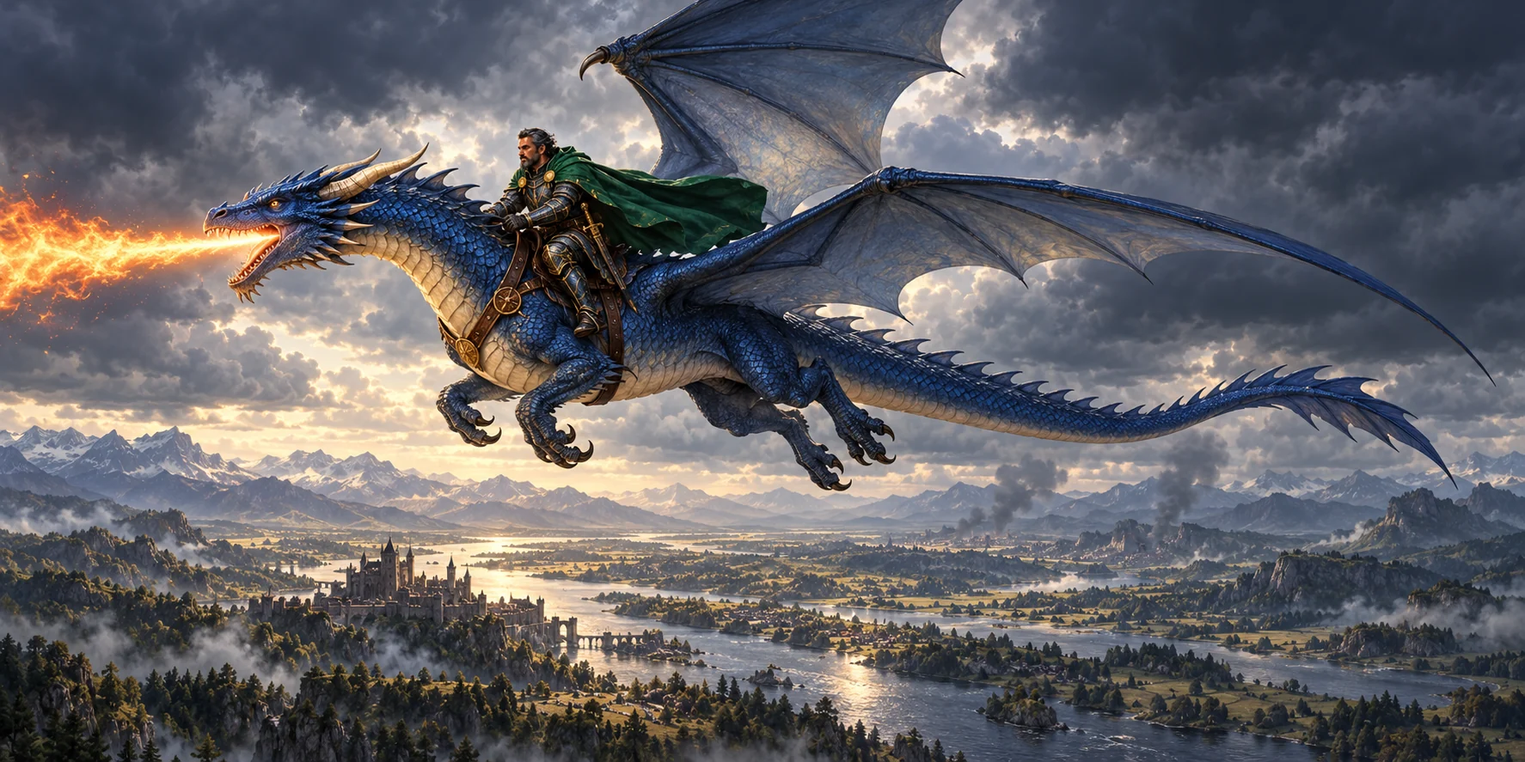
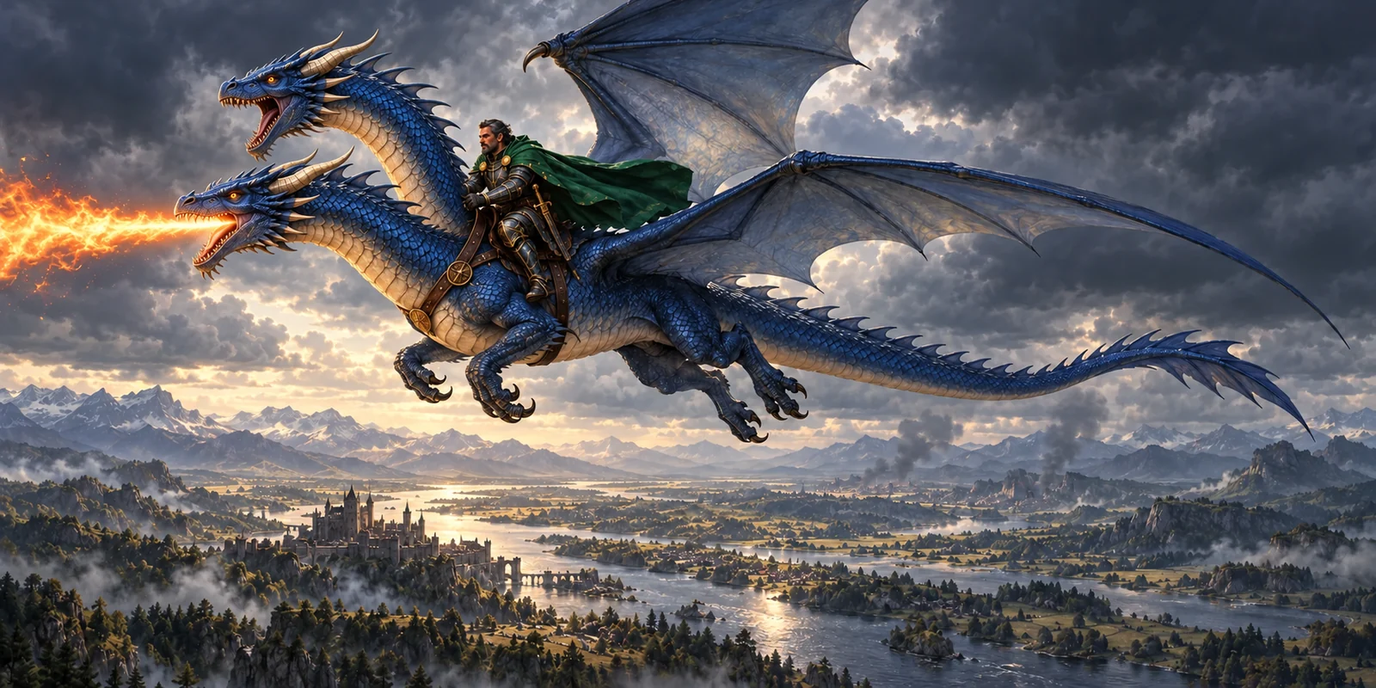
Shorten the prologue, add player identity choices, and animate pyramid scarab travel
Halve the opening shot time and correct all retained royal dragon illustrations to a two-headed blue dragon. Add a mobile-friendly new-game creator, generated hair portraits, consistent sprite palettes, displayed names, and per-save profiles with legacy defaults. Make all eight pyramid scarabs roam safely and remove decorative stationary mummies while retaining combat enemies. Add regression coverage and preserve published editor changes.

diff --git a/js/prologue-chapters.js b/js/prologue-chapters.js
@@ -1,30 +1,17 @@
-/* Authored shots: camera points are [image focal x, image focal y, zoom].
-   The peaceful towns form one narrated passage without location title cards. */
+/* Short opening history: thirteen shots preserve the rise, betrayal and aftermath.
+   Camera points are [image focal x, image focal y, zoom]. */
 window.EmberPrologueChapters = [
-  {"title":"The age of riders","era":"Emberfell · Before Wingfall","image":"01-seven-riders","duration":9300,"alt":"Seven distinct dragons and their Riders stand together on a grassy ridge overlooking peaceful Emberfell; Halvard rides the blue dragon.","lines":["Seven Dragonriders once ruled Emberfell.","Dragons were plentiful, and peace endured."],"mood":"peace","transition":"dissolve","camera":[[0.19,0.53,1.03],[0.5,0.57,1.03],[0.82,0.63,1.03]]},
-  {"title":"Millwood","era":"The western fields","image":"06-peace-millwood","duration":3800,"alt":"Dragons and people live peacefully around Millwood’s timber windmill, wheat fields and cow pasture.","lines":["Dragons lived beside humankind."],"mode":"montage","transition":"dissolve","camera":[[0.3,0.53,1.08],[0.46,0.47,1.02]],"hideTitle":true},
-  {"title":"Thornwell","era":"Beyond the orange birches","image":"07-peace-thornwell","duration":3800,"alt":"Thornwell’s school, ivy-clad tavern, dark-roofed inn and apple orchard welcome people and dragons.","lines":["They were neighbors, companions, and friends."],"mode":"montage","transition":"dissolve","camera":[[0.62,0.42,1.02],[0.46,0.49,1.08]],"hideTitle":true},
-  {"title":"Forgefalls & Forgewick","era":"Across the oak country","image":"08-peace-forgefalls-forgewick","duration":3800,"alt":"A wagon crosses below Forgefalls toward Forgewick’s bustling market, forge, mine and rider temple.","lines":["Their wings sheltered a thriving realm."],"mode":"montage","transition":"dissolve","camera":[[0.4,0.64,1.13],[0.53,0.34,1.02]],"hideTitle":true},
-  {"title":"Sandspire & the Oasis","era":"The desert crossings","image":"09-peace-sandspire-oasis","duration":3800,"alt":"Sandspire’s sandstone houses overlook a safe cactus-lined caravan road to the separate palm oasis.","lines":["Travelers crossed the roads without fear."],"mode":"montage","transition":"dissolve","camera":[[0.57,0.4,1.13],[0.42,0.47,1.02]],"hideTitle":true},
-  {"title":"Coralmere & Witchmoor","era":"Blossoms, sea and marsh","image":"10-peace-coralmere-witchmoor","duration":3800,"alt":"Friendly dragons share Coralmere’s blossom-lined harbor; the road continues toward Witchmoor’s boardwalks.","lines":["Trade and friendship linked the distant towns."],"mode":"montage","transition":"dissolve","camera":[[0.39,0.38,1.04],[0.67,0.5,1.04]],"hideTitle":true},
-  {"title":"Hollybeck","era":"The winter country","image":"11-peace-hollybeck","duration":3800,"alt":"Snow-covered timber houses, friendly dragons and a safe spruce-lined road below Hollybeck’s temple.","lines":["Even the farthest villages knew peace."],"mode":"montage","transition":"dissolve","camera":[[0.48,0.64,1.08],[0.48,0.32,1.16]],"hideTitle":true},
-  {"title":"Ashcrag & Cinderhold","era":"The far eastern road","image":"12-peace-ashcrag-cinderhold","duration":3800,"alt":"A maintained stone road crosses Ashcrag’s lava country to Cinderhold, guarded by a dragon and rider.","lines":["Together, the seven Riders kept that peace."],"mode":"montage","transition":"dissolve","camera":[[0.65,0.35,1.17],[0.48,0.49,1.02]],"hideTitle":true},
-  {"title":"One wanted more","era":"Halvard · One of the seven","image":"13-halvard-ambition","duration":7800,"alt":"Halvard stands apart from the other riders, his hand tightening beside the throne.","lines":["But one of the seven wanted more.","Halvard meant to rule alone."],"mood":"royal","transition":"black","camera":[[0.48,0.43,1.04],[0.29,0.23,1.72]],"ease":"ease-in-out"},
-  {"title":"Wingfall","era":"Fifty years ago","image":"02-wingfall","duration":7800,"alt":"Short-haired Halvard rides his blue dragon above Emberfell as the betrayal begins.","lines":["The betrayal came fifty years ago.","They called it Wingfall."],"mood":"war","transition":"impact","camera":[[0.47,0.36,1.03],[0.35,0.32,1.09],[0.22,0.34,1.12]]},
-  {"title":"The broken sky","era":"Wingfall","image":"14-wingfall-sky","duration":5800,"alt":"Halvard on his blue dragon faces a white dragon and its Rider, their separate silhouettes clear above Forgefalls.","lines":["Dragonfire turned against dragonfire."],"mood":"war","transition":"impact","camera":[[0.76,0.28,1.02],[0.5,0.31,1.02],[0.27,0.28,1.06]]},
-  {"title":"The last defense","era":"Wingfall · The rider halls","image":"15-wingfall-temple","duration":8000,"alt":"A green dragon and its defender protect fleeing villagers at Forgewick’s temple while Halvard attacks from above on his blue dragon.","lines":["The Riders fell. Halvard prevailed."],"mood":"war","transition":"veil","camera":[[0.61,0.23,1.02],[0.27,0.59,1.02],[0.76,0.72,1.02]]},
-  {"title":"The usurper king","era":"Cinderhold","image":"03-halvard","duration":7800,"alt":"The crowned Halvard sits on Cinderhold’s throne, surrounded by his royal guards.","lines":["He seized Cinderhold’s throne.","No new Rider would be allowed to challenge him."],"mood":"royal","transition":"black","camera":[[0.47,0.39,1.02],[0.468,0.18,1.92]],"ease":"ease-in-out"},
-  {"title":"The dragon hunts","era":"By order of the king","image":"16-dragon-hunts","duration":7800,"alt":"Halvard leads armed royal hunters after dragons fleeing the cactus-lined roads outside Sandspire.","lines":["Then came the dragon hunts.","The survivors vanished. The skies fell silent."],"mood":"war","transition":"veil","camera":[[0.18,0.36,1.08],[0.6,0.38,1.02],[0.86,0.4,1.12]]},
-  {"title":"The abandoned workings","era":"The years after Wingfall","image":"21-monsters-mine","duration":4100,"alt":"Brown, red and violet Shroom monsters gather along mine rails beneath the watch of a brown Sand Golem.","lines":["Without the Riders, darkness spread."],"mode":"threat","mood":"dread","transition":"black","camera":[[0.3,0.44,1.03],[0.8,0.42,1.2]],"ease":"ease-in"},
-  {"title":"Orders without masters","era":"Beneath Forgewick","image":"22-monsters-granite","duration":3600,"alt":"A gray Stone Golem and skeletal swordsmen stand watch in the old temple undercroft.","lines":["Ancient wardens kept their watch."],"mode":"threat","mood":"dread","transition":"dread","camera":[[0.3,0.4,1.22],[0.68,0.44,1.03]]},
-  {"title":"The desert crossings","era":"The roads fall silent","image":"18-monsters-desert","duration":3600,"alt":"Orange Duneblades, teal Cistern Fangs and red, horn-helmed Sunscar Sentinels block the cactus-lined road near Sandspire.","lines":["The crossings belonged to monsters."],"mode":"threat","mood":"dread","transition":"dread","camera":[[0.71,0.46,1.03],[0.36,0.45,1.13]]},
-  {"title":"Beneath the sands","era":"The Sunken Pyramid","image":"24-monsters-pyramid","duration":3900,"alt":"A mummy and light- and dark-clad archers and lancers guard a sandstone crypt; the crowned, silver-haired Velyss waits in its webbed depths.","lines":["Something waited beneath the sands."],"mode":"threat","mood":"dread","transition":"veil","camera":[[0.22,0.43,1.03],[0.86,0.4,1.16]],"ease":"ease-in"},
-  {"title":"The blossom roads","era":"Without the Riders","image":"17-monsters-blossom","duration":3700,"alt":"All three Vinemaw forms and all three Ent forms spread across the blossom road outside Coralmere.","lines":["Even the forests began to hunger."],"mode":"threat","mood":"dread","transition":"dread","camera":[[0.72,0.5,1.18],[0.25,0.42,1.02]]},
-  {"title":"The winter roads","era":"Beyond shuttered doors","image":"19-monsters-winter","duration":3600,"alt":"Sandy Snowfangs, brown Frostclaws and an armored white Direfang Gnoll occupy the snowy road outside Hollybeck.","lines":["Winter shelters became hunting grounds."],"mode":"threat","mood":"dread","transition":"dread","camera":[[0.3,0.45,1.03],[0.72,0.48,1.16]]},
-  {"title":"The sleepless guardians","era":"Beneath Hollybeck","image":"23-monsters-crystal","duration":3700,"alt":"An ivory Ice Golem with violet crystals stands alone in an empty, frozen temple hall.","lines":["The old halls would not sleep."],"mode":"threat","mood":"dread","transition":"veil","camera":[[0.42,0.56,1.04],[0.31,0.3,1.24]]},
-  {"title":"Beyond the last shelter","era":"The northern snow trail","image":"25-monsters-winter-bosses","duration":3900,"alt":"White-furred, ram-horned Hroth guards one snow clearing; the blue-winged Veilwing hovers in a separate frozen glade.","lines":["Beyond them, greater terrors stirred."],"mode":"threat","mood":"dread","transition":"dread","camera":[[0.26,0.45,1.13],[0.83,0.4,1.03]]},
-  {"title":"The eastern watch","era":"In the shadow of Cinderhold","image":"20-monsters-ashcrag","duration":3600,"alt":"Red-eyed Ember Eyes, a green-eyed orange Blazing Eye and a violet-eyed Dread Eye drift over the lava road.","lines":["Eyes watched the empty roads."],"mode":"threat","mood":"dread","transition":"dread","camera":[[0.65,0.38,1.03],[0.29,0.36,1.22]]},
-  {"title":"Fire beneath the stone","era":"The depths of Ashcrag","image":"26-monsters-ember","duration":3900,"alt":"A blue-armored Fire Golem with an orange core stands before lavender, red and dark-blue fiends bearing distinct tridents.","lines":["Fire still burned beneath the stone."],"mode":"threat","mood":"war","transition":"impact","camera":[[0.26,0.51,1.04],[0.8,0.35,1.1]]},
-  {"title":"Fifty silent years","era":"A kingdom under Halvard","image":"04-silenced-realm","duration":8800,"alt":"The old rider halls stand deserted beside an overgrown road.","lines":["Dragon worship was forbidden. The old histories disappeared.","Fifty years passed beneath Halvard’s crown."],"mood":"aftermath","transition":"black","camera":[[0.34,0.28,1.25],[0.53,0.45,1.02]]},
-  {"title":"An ordinary morning","era":"Millwood · The present day","image":"05-millwood-dawn","duration":7800,"alt":"Morning light reaches Corin’s upstairs window in Millwood, beyond the windmill and fields.","lines":["In Millwood, a miller’s son was waking.","His name was Corin."],"mood":"dawn","transition":"dissolve","camera":[[0.62,0.43,1.02],[0.543,0.53,1.48]],"ease":"ease-in-out"}
+  {"title":"The age of riders","era":"Emberfell · Before Wingfall","image":"01-seven-riders","duration":7500,"alt":"Seven distinct dragons and their Riders stand together on a grassy ridge overlooking peaceful Emberfell; Halvard rides the two-headed blue dragon.","lines":["Seven Dragonriders once ruled Emberfell.","Dragons were plentiful, and peace endured."],"mood":"peace","transition":"dissolve","camera":[[0.19,0.53,1.03],[0.5,0.57,1.03],[0.82,0.63,1.03]]},
+  {"title":"Millwood","era":"The western fields","image":"06-peace-millwood","duration":3500,"alt":"Dragons and people live peacefully around Millwood’s timber windmill, wheat fields and cow pasture.","lines":["Dragons lived beside humankind."],"mode":"montage","transition":"dissolve","camera":[[0.3,0.53,1.08],[0.46,0.47,1.02]],"hideTitle":true},
+  {"title":"Sandspire & the Oasis","era":"The desert crossings","image":"09-peace-sandspire-oasis","duration":3500,"alt":"Sandspire’s sandstone houses overlook a safe cactus-lined caravan road to the separate palm oasis.","lines":["Travelers crossed the roads without fear."],"mode":"montage","transition":"dissolve","camera":[[0.57,0.4,1.13],[0.42,0.47,1.02]],"hideTitle":true},
+  {"title":"Hollybeck","era":"The winter country","image":"11-peace-hollybeck","duration":3500,"alt":"Snow-covered timber houses, friendly dragons and a safe spruce-lined road below Hollybeck’s temple.","lines":["Even the farthest villages knew peace."],"mode":"montage","transition":"dissolve","camera":[[0.48,0.64,1.08],[0.48,0.32,1.16]],"hideTitle":true},
+  {"title":"One wanted more","era":"Halvard · One of the seven","image":"13-halvard-ambition","duration":5500,"alt":"Halvard stands apart from the other riders, his hand tightening beside the throne.","lines":["But one of the seven wanted more.","Halvard meant to rule alone."],"mood":"royal","transition":"black","camera":[[0.48,0.43,1.04],[0.29,0.23,1.72]],"ease":"ease-in-out"},
+  {"title":"Wingfall","era":"Fifty years ago","image":"02-wingfall","duration":6500,"alt":"Short-haired Halvard rides his two-headed blue dragon above Emberfell as the betrayal begins.","lines":["The betrayal came fifty years ago.","They called it Wingfall."],"mood":"war","transition":"impact","camera":[[0.47,0.36,1.03],[0.35,0.32,1.09],[0.22,0.34,1.12]]},
+  {"title":"The last defense","era":"Wingfall · The rider halls","image":"15-wingfall-temple","duration":6000,"alt":"A green dragon and its defender protect fleeing villagers at Forgewick’s temple while Halvard attacks from above on his two-headed blue dragon.","lines":["The Riders fell. Halvard prevailed."],"mood":"war","transition":"veil","camera":[[0.61,0.23,1.02],[0.27,0.59,1.02],[0.76,0.72,1.02]]},
+  {"title":"The usurper king","era":"Cinderhold","image":"03-halvard","duration":6000,"alt":"The crowned Halvard sits on Cinderhold’s throne, surrounded by his royal guards.","lines":["He seized Cinderhold’s throne.","No new Rider would be allowed to challenge him."],"mood":"royal","transition":"black","camera":[[0.47,0.39,1.02],[0.468,0.18,1.92]],"ease":"ease-in-out"},
+  {"title":"The dragon hunts","era":"By order of the king","image":"16-dragon-hunts","duration":6000,"alt":"Halvard leads armed royal hunters after dragons fleeing the cactus-lined roads outside Sandspire.","lines":["Then came the dragon hunts.","The survivors vanished. The skies fell silent."],"mood":"war","transition":"veil","camera":[[0.18,0.36,1.08],[0.6,0.38,1.02],[0.86,0.4,1.12]]},
+  {"title":"The desert crossings","era":"The roads fall silent","image":"18-monsters-desert","duration":3500,"alt":"Orange Duneblades, teal Cistern Fangs and red, horn-helmed Sunscar Sentinels block the cactus-lined road near Sandspire.","lines":["The crossings belonged to monsters."],"mode":"threat","mood":"dread","transition":"dread","camera":[[0.71,0.46,1.03],[0.36,0.45,1.13]]},
+  {"title":"The blossom roads","era":"Without the Riders","image":"17-monsters-blossom","duration":3500,"alt":"All three Vinemaw forms and all three Ent forms spread across the blossom road outside Coralmere.","lines":["Even the forests began to hunger."],"mode":"threat","mood":"dread","transition":"dread","camera":[[0.72,0.5,1.18],[0.25,0.42,1.02]]},
+  {"title":"Fifty silent years","era":"A kingdom under Halvard","image":"04-silenced-realm","duration":7000,"alt":"The old rider halls stand deserted beside an overgrown road.","lines":["Dragon worship was forbidden. The old histories disappeared.","Fifty years passed beneath Halvard’s crown."],"mood":"aftermath","transition":"black","camera":[[0.34,0.28,1.25],[0.53,0.45,1.02]]},
+  {"title":"An ordinary morning","era":"Millwood · The present day","image":"05-millwood-dawn","duration":5500,"alt":"Morning light reaches Corin’s upstairs window in Millwood, beyond the windmill and fields.","lines":["In Millwood, a miller’s son was waking.","His name was Corin."],"mood":"dawn","transition":"dissolve","camera":[[0.62,0.43,1.02],[0.543,0.53,1.48]],"ease":"ease-in-out"}
 ];

diff --git a/js/player-identity.js b/js/player-identity.js
@@ -1,0 +1,109 @@
+/* Corin remains the story actor's internal key. Only presentation uses this profile. */
+(() => {
+  'use strict';
+  const colors = [
+    {id:'dark',label:'Dark',swatch:'#51404b'},
+    {id:'brown',label:'Brown',swatch:'#795039',rgb:[108,68,43]},
+    {id:'copper',label:'Copper',swatch:'#bb5a30',rgb:[180,78,36]},
+    {id:'blond',label:'Blond',swatch:'#dab76a',rgb:[215,173,87]},
+    {id:'silver',label:'Silver',swatch:'#c4c2cf',rgb:[186,186,201]}
+  ];
+  const cleanName = value => Array.from(String(value ?? '').normalize('NFC')
+    .replace(/[^\p{L}\p{M}\p{N} '\u2019-]/gu,'').replace(/\s+/g,' ').trim()).slice(0,16).join('');
+  const normalize = value => ({name:cleanName(value?.name)||'Corin',hair:colors.some(c=>c.id===value?.hair)?value.hair:'dark'});
+  let profile=normalize(null), choosing=null, pageKeys=null, bytes=0;
+  const cache=new Map(),hairSource='assets/portraits/corin-hair.webp?v=20261006-player';
+  function restore(value){
+    profile=normalize(value);cache.clear();bytes=0;
+    const hud=document.getElementById('playerHudName'),death=document.getElementById('playerDeathTitle');
+    if(hud){hud.textContent=profile.name.toUpperCase();hud.title=profile.name;}
+    if(death)death.textContent=profile.name.toUpperCase()+' FALLS';
+  }
+  function text(value){
+    // Protect the chosen name on repeated display passes (e.g. “Corin Junior”).
+    const escaped=profile.name.replace(/[.*+?^${}()|[\]\\]/g,'\\$&');
+    return String(value??'').replace(new RegExp('(?<![\\p{L}\\p{N}_])(?:'+escaped+'|Corin)(?![\\p{L}\\p{N}_])','gu'),match=>match==='Corin'?profile.name:match);
+  }
+  function portrait(hair=profile.hair,armored=false){
+    const column=colors.findIndex(c=>c.id===hair)-1;
+    return column<0?null:{id:250+column+(armored?4:0),src:hairSource,cell:column+(armored?4:0),cols:4,rows:2};
+  }
+  const footPalette=new Map([0x211a1c,0x2b2023,0x3b2c33,0x4d3945,0x684f5a,0x876c7d].map((rgb,i)=>[rgb,i]));
+  // The on-foot source has an exact six-color hair ramp. Mounted sheets are
+  // compressed: accept only the muted plum hair ramp, preserving skin, clothes,
+  // armor, red dragon scales, alpha and every animation frame.
+  function hairLevel(r,g,b,mounted){
+    if(!mounted)return footPalette.get((r<<16)|(g<<8)|b)??-1;
+    if(r<26||r>160||g<r*.60||g>r*.85||b<r*.80||b>r*1.12)return -1;
+    return Math.max(0,Math.min(5,Math.round((r-28)/22)));
+  }
+  function recolorPixels(data,hair,mounted=false){
+    const base=colors.find(c=>c.id===hair)?.rgb;if(!base)return 0;
+    const ramp=[.29,.39,.53,.70,.88,1.15].map(v=>base.map(c=>Math.min(255,Math.round(c*v))));
+    let changed=0;
+    for(let i=0;i<data.length;i+=4){if(!data[i+3])continue;const level=hairLevel(data[i],data[i+1],data[i+2],mounted);if(level<0)continue;
+      [data[i],data[i+1],data[i+2]]=ramp[level];changed++;
+    }
+    return changed;
+  }
+  function spritePage(page){
+    if(profile.hair==='dark')return page.img;
+    if(!pageKeys){
+      if(typeof SPR==='undefined')return page.img;
+      pageKeys=new Set(Object.entries(SPR).filter(([key])=>/^corin(?:_|ride_)/.test(key)).map(([,rect])=>rect[1]));
+    }
+    if(!pageKeys.has(page.y))return page.img;
+    const old=cache.get(page.img);if(old){cache.delete(page.img);cache.set(page.img,old);return old.canvas;}
+    const canvas=document.createElement('canvas');canvas.width=page.w;canvas.height=page.h;
+    const g=canvas.getContext('2d',{willReadFrequently:true});g.drawImage(page.img,0,0);
+    const pixels=g.getImageData(0,0,page.w,page.h);recolorPixels(pixels.data,profile.hair,page.h>64);g.putImageData(pixels,0,0);
+    const cost=page.w*page.h*4;
+    while(bytes+cost>4*1024*1024&&cache.size){const key=cache.keys().next().value;bytes-=cache.get(key).cost;cache.delete(key);}
+    cache.set(page.img,{canvas,cost});bytes+=cost;return canvas;
+  }
+  function choose(){
+    if(choosing)return choosing;
+    choosing=new Promise(resolve=>{
+      const previous=document.activeElement,draft=normalize(null);
+      if(typeof clearPadInputs==='function')clearPadInputs();
+      const root=document.createElement('div');root.id='playerCreator';root.setAttribute('role','dialog');root.setAttribute('aria-modal','true');root.setAttribute('aria-labelledby','playerCreatorTitle');
+      root.innerHTML=`<form class="playerCreatorCard">
+        <p class="playerCreatorEyebrow">A new journey</p><h2 id="playerCreatorTitle">Your Dragonrider</h2>
+        <div class="playerCreatorPreview" role="img" aria-label="Your character"></div>
+        <label for="playerName">What is your name?</label>
+        <input id="playerName" name="playerName" type="text" value="Corin" maxlength="32" autocomplete="off" autocapitalize="words" spellcheck="false" aria-describedby="playerNameHelp">
+        <p id="playerNameHelp">Up to 16 letters, numbers, spaces, or hyphens.</p>
+        <fieldset><legend>Hair color</legend><div class="playerHairChoices"></div></fieldset>
+        <div class="playerCreatorActions"><button type="button" data-cancel>Back</button><button type="submit" class="playerCreatorBegin">Begin adventure →</button></div>
+      </form>`;
+      const form=root.querySelector('form'),input=root.querySelector('input'),preview=root.querySelector('.playerCreatorPreview'),choices=root.querySelector('.playerHairChoices');
+      let alive=true;
+      function paint(){
+        const p=portrait(draft.hair)||((typeof DIALOGUE_PORTRAITS!=='undefined'&&DIALOGUE_PORTRAITS.Corin)||null);
+        const color=colors.find(c=>c.id===draft.hair);preview.setAttribute('aria-label',color.label+' hair preview');
+        const apply=src=>{if(!alive||draft.hair!==color.id||!src)return;preview.style.backgroundImage='url("'+src+'")';const cols=p.cols||5,rows=p.rows||4;preview.style.backgroundSize=cols*100+'% '+rows*100+'%';preview.style.backgroundPosition=(p.cell%cols)*100/(cols-1)+'% '+Math.floor(p.cell/cols)*100/(rows-1)+'%';};
+        if(p?.src)apply(p.src);else if(p&&typeof loadPortraitPack==='function')loadPortraitPack(p.pack).then(apply);
+        for(const b of choices.children)b.setAttribute('aria-pressed',String(b.dataset.hair===draft.hair));
+      }
+      for(const color of colors){const b=document.createElement('button');b.type='button';b.dataset.hair=color.id;b.style.setProperty('--hair',color.swatch);b.textContent=color.label;b.addEventListener('click',()=>{draft.hair=color.id;paint();});choices.appendChild(b);}
+      function finish(value){alive=false;window.removeEventListener('keydown',key,true);window.removeEventListener('keyup',key,true);root.remove();choosing=null;if(typeof clearPadInputs==='function')clearPadInputs();previous?.focus?.();resolve(value);}
+      function key(e){
+        e.stopImmediatePropagation();
+        if(e.type==='keyup')return;
+        if(e.key==='Escape'){e.preventDefault();finish(null);}
+        else if(e.key==='Tab'){
+          const nodes=[...root.querySelectorAll('input,button')],first=nodes[0],last=nodes[nodes.length-1];
+          if(e.shiftKey&&document.activeElement===first){e.preventDefault();last.focus();}
+          else if(!e.shiftKey&&document.activeElement===last){e.preventDefault();first.focus();}
+        }
+      }
+      root.querySelector('[data-cancel]').addEventListener('click',()=>finish(null));
+      form.addEventListener('submit',e=>{e.preventDefault();const name=cleanName(input.value);if(!name){input.setCustomValidity('Please enter a name.');input.reportValidity();return;}finish({name,hair:draft.hair});});
+      input.addEventListener('input',()=>input.setCustomValidity(''));
+      window.addEventListener('keydown',key,true);window.addEventListener('keyup',key,true);
+      document.body.appendChild(root);paint();root.querySelector('.playerCreatorBegin').focus();
+    });
+    return choosing;
+  }
+  window.EmberPlayerIdentity={colors,cleanName,normalize,capture:()=>({...profile}),restore,text,portrait,spritePage,recolorPixels,choose,active:()=>!!choosing};
+})();

diff --git a/index.html b/index.html
@@ -83,6 +83,7 @@
 <link rel="stylesheet" href="css/tutorial-button-polish.css?v=20261005-sound-contrast">
 <link rel="stylesheet" href="css/aurelius-interface.css?v=20261003-panel-fix">
 <link rel="stylesheet" href="css/controller-layout.css?v=20261003-dragon-visibility">
+<link rel="stylesheet" href="css/player-identity.css?v=20261006-player">
 <link rel="stylesheet" href="css/opening-prologue.css?v=20261003-dramatic5">
 <link rel="stylesheet" href="css/crafting.css?v=20261006-fieldcraft-dialogue">
 </head>
@@ -227,7 +228,7 @@
      font:13px/1.6 ui-monospace,monospace;opacity:0;
      transition:opacity .75s ease;
      flex-direction:column;align-items:center;justify-content:center;gap:14px">
-  <div style="font-size:19px;letter-spacing:7px;color:#c8544a">CORIN FALLS</div>
+  <div id="playerDeathTitle" style="font-size:19px;letter-spacing:3px;color:#c8544a;text-align:center">CORIN FALLS</div>
   <div id="deadWhy" style="opacity:.75;font-size:12px;text-align:center;
        max-width:70%"></div>
   <div id="deadBtn" style="margin-top:6px;padding:10px 22px;border-radius:10px;
@@ -239,7 +240,7 @@
 <div id="deck">
   <div id="trigs"></div>
   <div id="playface">
-  <div id="leftControls"><div id="deckHealth" class="solo"><div class="deckHpRow"><canvas class="deckPortrait" id="deckCorinPortrait" width="32" height="32"></canvas><div class="deckVital"><span>CORIN</span><div class="deckHearts pixelHearts" id="deckCorinHearts"></div></div></div><div class="deckHpRow" id="deckDragonRow" style="display:none"><canvas class="deckPortrait" id="deckDragonPortrait" width="32" height="32"></canvas><div class="deckVital"><span>DRAGON</span><div class="deckHearts pixelHearts" id="deckDragonHearts"></div></div></div></div>
+  <div id="leftControls"><div id="deckHealth" class="solo"><div class="deckHpRow"><canvas class="deckPortrait" id="deckCorinPortrait" width="32" height="32"></canvas><div class="deckVital"><span id="playerHudName">CORIN</span><div class="deckHearts pixelHearts" id="deckCorinHearts"></div></div></div><div class="deckHpRow" id="deckDragonRow" style="display:none"><canvas class="deckPortrait" id="deckDragonPortrait" width="32" height="32"></canvas><div class="deckVital"><span>DRAGON</span><div class="deckHearts pixelHearts" id="deckDragonHearts"></div></div></div></div>
   <div id="dpad">
     <div class="corner"></div>
     <div data-dx="0"  data-dy="-1">&#8593;</div>
@@ -471,7 +472,7 @@ window.addEventListener("unhandledrejection", function (e) {
 <script src="js/millwood-interiors.js?v=20261005-door-access"></script>
 <script src="js/generated/game-part-1.js?v=20260930-craftsmen-idle" onerror="(document.getElementById('bootMsg')||document.getElementById('bootmsg')).textContent='GAME PART 1 LOAD ERROR'"></script>
 <script src="js/combat-navigation.js?v=20261001-winter-scale"></script>
-<script src="js/generated/game-part-2.js?v=20261006-fieldcraft-dialogue" onerror="(document.getElementById('bootMsg')||document.getElementById('bootmsg')).textContent='GAME PART 2 LOAD ERROR'"></script>
+<script src="js/generated/game-part-2.js?v=20261006-player" onerror="(document.getElementById('bootMsg')||document.getElementById('bootmsg')).textContent='GAME PART 2 LOAD ERROR'"></script>
 <script src="js/animal-sprites.js?v=20260925-stable-farm-ids"></script>
 <script src="js/hunting-grounds.js?v=20261003-celestial"></script>
 <script src="js/hollybeck-villagers.js?v=20261001-recovery1"></script>
@@ -488,17 +489,18 @@ window.addEventListener("unhandledrejection", function (e) {
 <script src="js/story-dialogue.js?v=20260927-context"></script>
 <script src="js/dragon-dialogue.js?v=20261005-journey-audit"></script>
 <script src="assets/portraits/manifest.js?v=20260930-feet-mine-companion"></script>
-<script src="js/dialogue-portraits.js?v=20261006-fieldcraft-dialogue"></script>
+<script src="js/player-identity.js?v=20261006-player"></script>
+<script src="js/dialogue-portraits.js?v=20261006-player"></script>
 <script src="js/thornwell-royal.js?v=20261002-silent-story"></script>
 <script src="js/atlas-motion.js?v=20261002-path-and-clouds"></script>
-<script src="js/quest-map.js?v=20261005-monster-names"></script>
+<script src="js/quest-map.js?v=20261006-player"></script>
 <script src="js/atlas-discovery.js?v=20261005-monster-names"></script>
 <script src="js/quest-notifications.js?v=20261002-quest-targets"></script>
 <script src="js/flight-travel.js?v=20261002-hettie-flight"></script>
 <script src="js/cloud-save-core.js?v=20260927-hatch-save-controls1"></script>
-<script src="js/prologue-chapters.js?v=20261005-monster-names"></script>
-<script src="js/opening-prologue.js?v=20261003-dramatic5"></script>
-<script src="js/generated/game-part-3.js?v=20261006-fieldcraft-dialogue" onerror="(document.getElementById('bootMsg')||document.getElementById('bootmsg')).textContent='GAME PART 3 LOAD ERROR'"></script>
+<script src="js/prologue-chapters.js?v=20261006-player"></script>
+<script src="js/opening-prologue.js?v=20261006-player"></script>
+<script src="js/generated/game-part-3.js?v=20261006-player" onerror="(document.getElementById('bootMsg')||document.getElementById('bootmsg')).textContent='GAME PART 3 LOAD ERROR'"></script>
 <script src="js/overworld-performance.js?v=20261003-overworld-performance"></script>
 <script src="js/shroom-scenery.js?v=20261005-android-art-loading"></script>
 <script src="js/blossom-routes.js?v=20261005-world-generation"></script>
@@ -532,7 +534,7 @@ window.addEventListener("unhandledrejection", function (e) {
 
 <script src="js/dragon-scene-audio.js?v=20260928-bag-player-audio"></script>
 <script src="js/dragon-attack-align.js?v=20260926-published-offsets"></script>
-<script src="js/encounter-cards.js?v=20260930-tavern-lessons-portraits"></script>
+<script src="js/encounter-cards.js?v=20261006-player"></script>
 <script src="js/arena-entry.js?v=20261003-door-motion-fix"></script>
 <script src="js/conversation-branch-data.js?v=20261005-temple-journey"></script>
 <script src="js/farm-resident.js?v=20261005-farmer-idle"></script>
@@ -542,7 +544,7 @@ window.addEventListener("unhandledrejection", function (e) {
 <script src="js/shroom-lookout.js?v=20261005-chest-shroom-access"></script>
 <script src="js/equipment-tutorial.js?v=20261002-living-map"></script>
 <script src="js/spider-queen-demo.js?v=20261005-monster-names"></script>
-<script src="js/desert-adventure.js?v=20261002-forgewick-opening2"></script>
+<script src="js/desert-adventure.js?v=20261006-moving-scarabs"></script>
 <script src="js/sandspire-glassworks.js?v=20261001-props"></script>
 <script src="js/desert-borders.js?v=20261001-oasis-edge"></script>
 <script src="js/side-route-adventures.js?v=20261002-path-and-clouds"></script>
@@ -565,8 +567,8 @@ window.addEventListener("unhandledrejection", function (e) {
 <script src="js/conversation-branches.js?v=20261002-millwood-shrooms"></script>
 <script src="js/conversation-panels.js?v=20261002-forgewick-opening2"></script>
 <script src="js/conversation-flow.js?v=20261006-fieldcraft-dialogue"></script>
-<script src="js/conversation-view.js?v=20261006-fieldcraft-dialogue"></script>
-<script src="js/conversation-deck.js?v=20261002-thornwell2"></script>
+<script src="js/conversation-view.js?v=20261006-player"></script>
+<script src="js/conversation-deck.js?v=20261006-player"></script>
 <script src="js/riding-tutorial.js?v=20260930-regional-royal-menus"></script>
 <script src="js/cloud-saves.js?v=20260927-bramble-north"></script>
 <script src="js/audio-mix-editor.js?v=20260928-mixer-scroll"></script>

diff --git a/css/player-identity.css b/css/player-identity.css
@@ -1,0 +1,22 @@
+#playerCreator{position:fixed;inset:0;z-index:2147483000;display:grid;place-items:center;overflow:auto;padding:18px 14px;box-sizing:border-box;background:rgba(5,13,20,.94);color:#f4e5b9;touch-action:pan-y}
+#playerCreator *{box-sizing:border-box}
+.playerCreatorCard{width:min(100%,440px);margin:auto;padding:24px;border:1px solid #ae9963;border-radius:18px;background:linear-gradient(145deg,#19383e,#101e2b);box-shadow:0 18px 70px #0008;font:16px/1.4 Georgia,serif;text-align:center}
+.playerCreatorEyebrow{margin:0 0 4px;color:#c5d9cc;font:12px/1.4 monospace;letter-spacing:.15em;text-transform:uppercase}
+#playerCreator h2{font-size:30px;margin:0 0 10px;color:#ffe3a0}
+.playerCreatorPreview{height:180px;width:180px;margin:0 auto 10px;background-repeat:no-repeat;filter:drop-shadow(0 8px 6px #0007)}
+#playerCreator label{display:block;text-align:left;font-weight:bold;margin-bottom:7px}
+#playerName{width:100%;font:20px/1.4 Georgia,serif;color:#fff6dc;background:#081c25;border:1px solid #8daca2;border-radius:8px;padding:10px 12px;min-height:48px}
+#playerNameHelp{font:12px/1.4 system-ui,sans-serif;text-align:left;color:#c4d7d0;margin:6px 0 18px}
+#playerCreator fieldset{border:0;padding:0;margin:0 0 22px;text-align:left;min-width:0}
+#playerCreator legend{font-weight:bold;margin-bottom:10px}
+.playerHairChoices{display:grid;grid-template-columns:repeat(5,1fr);gap:6px}
+#playerCreator button{font:14px/1.2 Georgia,serif;min-height:46px;color:#f8edcf;border:1px solid #809d96;background:#203e44;border-radius:8px;padding:9px 5px;cursor:pointer}
+.playerHairChoices button::before{content:'';display:block;width:22px;height:22px;margin:0 auto 7px;background:var(--hair);border:1px solid #fff5;border-radius:50%}
+#playerCreator .playerHairChoices button[aria-pressed=true]{outline:2px solid #f1d78e;outline-offset:1px;background:#3e5148;color:#fff6d8}
+.playerCreatorActions{display:grid;grid-template-columns:1fr 2fr;gap:10px}
+#playerCreator .playerCreatorBegin{background:#e8d293;color:#17252c;border-color:#ffe6a6;font-weight:bold}
+#playerCreator :focus-visible{outline:3px solid #b0e8f1;outline-offset:3px}
+@media(max-height:650px) and (min-width:560px){.playerCreatorCard{width:min(100%,670px);padding:18px 24px 18px 205px;position:relative}.playerCreatorPreview{position:absolute;left:12px;top:68px}.playerCreatorEyebrow{font-size:11px}#playerCreator h2{font-size:24px}.playerCreatorCard fieldset{margin-bottom:12px!important}#playerNameHelp{margin-bottom:10px}}
+@media(max-width:370px){.playerCreatorCard{padding:18px 14px}.playerHairChoices{gap:4px}#playerCreator button{font-size:12px}.playerCreatorPreview{width:160px;height:160px}}
+
+#playerHudName{display:block;max-width:140px;overflow:hidden;text-overflow:ellipsis;white-space:nowrap}

diff --git a/js/desert-adventure.js b/js/desert-adventure.js
@@ -40,8 +40,31 @@ const DesertAdventure=(()=>{
       const m=W.maps[id];m.templePlan.chambers.forEach(([l,t,r,b],room)=>{
         // Side-wall furnishings leave the middle and every door approach open.
         const spots=[[l+32,t+96],[r-32,t+96],[l+24,b-56],[r-24,b-56],[l+56,t+32],[r-56,t+32],[l+48,b-24],[r-48,b-24]];
-        names.forEach((name,i)=>{const [x,y]=name==='dd_ladder'?[r-48,t+4]:spots[i];prop(m,name,x,y,{floor:/rug|bones|mat|leaves|scarab/.test(name)});});
+        names.forEach((name,i)=>{const [x,y]=name==='dd_ladder'?[r-48,t+4]:spots[i];
+          const actor=prop(m,name,x,y,{floor:/rug|bones|mat|leaves|scarab/.test(name)});
+          if(/^dd_scarab/.test(name)){
+            const angle=(room*1.7+i*2.4),speed=13+i%3*3;
+            actor.scarab={bounds:[l+16,t+24,r-16,b-16],vx:Math.cos(angle)*speed,vy:Math.sin(angle)*speed};
+          }
+        });
       });
+      // Decorative standing mummies are not enemies and have no interaction.
+      // Keep combat mummies in m.foes; discard only these dressing actors.
+      m.roomActors=m.roomActors.filter(a=>a.spr!=='dd_mummy');
+    }
+  }
+  function stepScarabs(dt,map=MD){
+    if(!map?.pyramid||!(dt>0))return;
+    const step=Math.min(dt,.05),radius=5;
+    for(const actor of map.roomActors||[]){
+      const crawl=actor.scarab;if(!crawl||actor.editorDeleted)continue;
+      const [l,t,r,b]=crawl.bounds;
+      const free=(x,y)=>x>=l&&x<=r&&y>=t&&y<=b&&!(map.roomBlocks||[]).some(([x0,y0,x1,y1])=>x+radius>x0&&x-radius<x1&&y+radius>y0&&y-radius<y1);
+      let x=actor.x+crawl.vx*step,y=actor.y+crawl.vy*step;
+      if(!free(x,actor.y)){crawl.vx=-crawl.vx;x=actor.x+crawl.vx*step;}
+      if(free(x,actor.y))actor.x=x;
+      if(!free(actor.x,y)){crawl.vy=-crawl.vy;y=actor.y+crawl.vy*step;}
+      if(free(actor.x,y))actor.y=y;
     }
   }
   function organizeTown(m){
@@ -206,5 +229,5 @@ const DesertAdventure=(()=>{
         ]};askPick=0;askDraw();
       });return true;
   }
-  return {prepare,installWorld,clearApproach,vultures,drawVulture,scareVultures,houseSprite:o=>MAPID==='world'&&MD.desertHouseSprites?.[o.id],talk,accept,owned,won,rewardId:REWARD,arenas,accepted:()=>!!source,capture:()=>source,restore:value=>{source=['school','sandspire'].includes(value)?value:null;},firePower:(el,power)=>el==='fire'&&owned()?power*1.25:power};
+  return {prepare,stepScarabs,installWorld,clearApproach,vultures,drawVulture,scareVultures,houseSprite:o=>MAPID==='world'&&MD.desertHouseSprites?.[o.id],talk,accept,owned,won,rewardId:REWARD,arenas,accepted:()=>!!source,capture:()=>source,restore:value=>{source=['school','sandspire'].includes(value)?value:null;},firePower:(el,power)=>el==='fire'&&owned()?power*1.25:power};
 })();

diff --git a/js/opening-prologue.js b/js/opening-prologue.js
@@ -5,7 +5,7 @@
   if (!Array.isArray(chapters) || !chapters.length) return;
   const reduced = window.matchMedia('(prefers-reduced-motion: reduce)').matches;
   const wait = ms => new Promise(resolve => setTimeout(resolve, ms));
-  const imageURL = chapter => 'assets/prologue/' + chapter.image + '.webp?v=20261003-continuity';
+  const imageURL = chapter => 'assets/prologue/' + chapter.image + '.webp?v=20261006-two-heads';
   let active = false, playing = null;
 
   function loadPicture(chapter, signal) {
@@ -177,7 +177,7 @@
       if (n === beat || index < 0) return;
       beat = n;
       captionAnimation?.cancel(); captionAnimation = null;
-      narration.textContent = chapters[index].lines[n];
+      narration.textContent = window.EmberPlayerIdentity?.text(chapters[index].lines[n])??chapters[index].lines[n];
       if (!reduced && narration.animate) {
         captionAnimation = narration.animate([{ opacity: 0, transform: 'translateY(5px)' }, { opacity: 1, transform: 'translateY(0)' }],
           { duration: chapters[index].mode ? 120 : 320, easing: 'ease-out', fill: 'both' });
@@ -215,7 +215,7 @@
       root.dataset.mode = chapter.mode || 'story';
       root.dataset.hideTitle = String(!!chapter.hideTitle);
       pictureHost.replaceChildren();
-      if (picture) { picture.alt = chapter.alt; pictureHost.appendChild(picture); }
+      if (picture) { picture.alt = window.EmberPlayerIdentity?.text(chapter.alt)??chapter.alt; pictureHost.appendChild(picture); }
       era.textContent = chapter.era; title.textContent = chapter.title;
       copy.scrollTop = 0;
       counter.textContent = (index + 1) + ' / ' + chapters.length;

diff --git a/js/encounter-cards.js b/js/encounter-cards.js
@@ -13,7 +13,7 @@ window.EmberEncounterCard={layout:layoutEncounterCards,blocking:()=>[...encounte
   node.replaceChildren();node.dataset.instruction=title;node.dataset.kind=kind;node.dataset.dismiss=dismiss;
   const footer=dismiss==='a'?'Press A to dismiss':dismiss==='battle'?'Press A to begin':'';
   node.classList.add('encounter-card');node.setAttribute('aria-label',[title,action,footer].filter(Boolean).join('. '));
-  const add=(tag,cls,text)=>{const e=document.createElement(tag);e.className=cls;if(text)e.textContent=text;node.appendChild(e);return e;};
+  const add=(tag,cls,text)=>{const e=document.createElement(tag);e.className=cls;if(text)e.textContent=window.EmberPlayerIdentity?.text(text)??text;node.appendChild(e);return e;};
   const atmosphere=add('span','encounter-atmosphere');atmosphere.setAttribute('aria-hidden','true');
   for(let i=0;i<12;i++){
     const spark=document.createElement('i');spark.style.setProperty('--x',((i*29+7)%94+3)+'%');
@@ -27,7 +27,7 @@ window.EmberEncounterCard={layout:layoutEncounterCards,blocking:()=>[...encounte
   add('strong','encounter-title',title);
   add('span','encounter-detail',detail);
   const cta=add('span','encounter-action');if(key){const badge=document.createElement('b');badge.textContent=key;cta.appendChild(badge);}
-  const label=document.createElement('span');label.textContent=action;cta.appendChild(label);
+  const label=document.createElement('span');label.textContent=window.EmberPlayerIdentity?.text(action)??action;cta.appendChild(label);
   if(footer)add('span','encounter-footnote',footer);
 }};
 window.addEventListener?.('resize',layoutEncounterCards);

diff --git a/js/conversation-deck.js b/js/conversation-deck.js
@@ -43,7 +43,7 @@
     speech.append(identity);stage.append(speech);return stage;
   }
   function makePlayer(workspace){
-    const player=node('section','conversationPlayer');player.setAttribute('aria-label','Corin’s side of the conversation');
+    const player=node('section','conversationPlayer');player.setAttribute('aria-label',playerFacingText('Corin’s side of the conversation'));
     const identity=node('div','conversationSpeaker');identity.append(portrait('Corin'),node('strong','conversationSpeakerName','Corin'));
     const body=node('div','conversationPlayerBody');
     const speech=node('div','conversationCorinSpeech');speech.append(node('div','conversationCorinEcho scrolls'),advanceCue());
@@ -94,7 +94,7 @@
     box.moved=false;box.classList.add('journalDeck');box.classList.toggle('deckEntering',enter);
     box.style.display='grid';box.style.width='100%';rows.replaceChildren();
     rows.classList.toggle('replyMenu',!!ask.replyChoices);
-    rows.setAttribute('role','group');rows.setAttribute('aria-label',ask.replyChoices?'Choose Corin’s reply':'Conversation topics');
+    rows.setAttribute('role','group');rows.setAttribute('aria-label',ask.replyChoices?playerFacingText('Choose Corin’s reply'):'Conversation topics');
     const name=ask.npcConversation||'Aurelius';
     box.dataset.conversationTheme=window.EmberConversationView.theme(name,ask.npcActor);
     for(const lane of [stage,player]){

diff --git a/js/quest-map.js b/js/quest-map.js
@@ -534,7 +534,7 @@ function atlasShowDetails(){
  const $=id=>document.getElementById(id),area=atlasCurrentArea();
  $('atlasAreaLabel').textContent=p[0]===area?'YOUR CURRENT AREA':'SELECTED AREA';
  const description=atlasPlaceDescription(p);
- $('atlasName').textContent=description.title;$('atlasText').textContent=description.detail;
+ $('atlasName').textContent=description.title;$('atlasText').textContent=playerFacingText(description.detail);
  $('atlasServices').replaceChildren(atlasElement('strong','',description.service));
  if(typeof refreshFlightOption==='function')refreshFlightOption();
  $('atlasTrackedTitle').textContent=q?.title||'No quest tracked';

diff --git a/js/conversation-view.js b/js/conversation-view.js
@@ -113,7 +113,7 @@
       const talking=active&&corin===isCorin;
       lane.classList.toggle('is-speaking',talking);
       lane.classList.toggle('is-listening',active&&!talking);
-      lane.querySelector('.conversationSpeakerName').setAttribute('aria-label',(isCorin?'Corin':npcName)+(talking?' — speaking':''));
+      lane.querySelector('.conversationSpeakerName').setAttribute('aria-label',playerFacingText(isCorin?'Corin':npcName)+(talking?' — speaking':''));
       lane.querySelector('.conversationAdvance').hidden=!(ready&&corin===isCorin);
     }
     const secondary=room.querySelector('.conversationGoodbye'),label=backAvailable?'Back':'Goodbye';

diff --git a/js/dialogue-portraits.js b/js/dialogue-portraits.js
@@ -91,6 +91,7 @@ function portraitFor(who) {
   if(!who)return null;
   const name=PORTRAIT_ALIASES[who]||who;
   if(CHAPEL_PORTRAITS[name])return CHAPEL_PORTRAITS[name];
+  if(name==='Corin'){const custom=window.EmberPlayerIdentity?.portrait(undefined,typeof smithUpgrade!=='undefined'&&!!smithUpgrade);if(custom)return custom;}
   if(name==='Corin'&&typeof smithUpgrade!=='undefined'&&smithUpgrade)return {id:133,pack:8,cell:0};
   const portrait=DIALOGUE_PORTRAITS[name];
   if(PORTRAIT_FILES[name])return {...(portrait||{id:FACE_OF[name]??(name==='Tobin'?135:134)}),src:'assets/portraits/'+PORTRAIT_FILES[name]+'.webp?v=20260930-hatless-farmer'};
